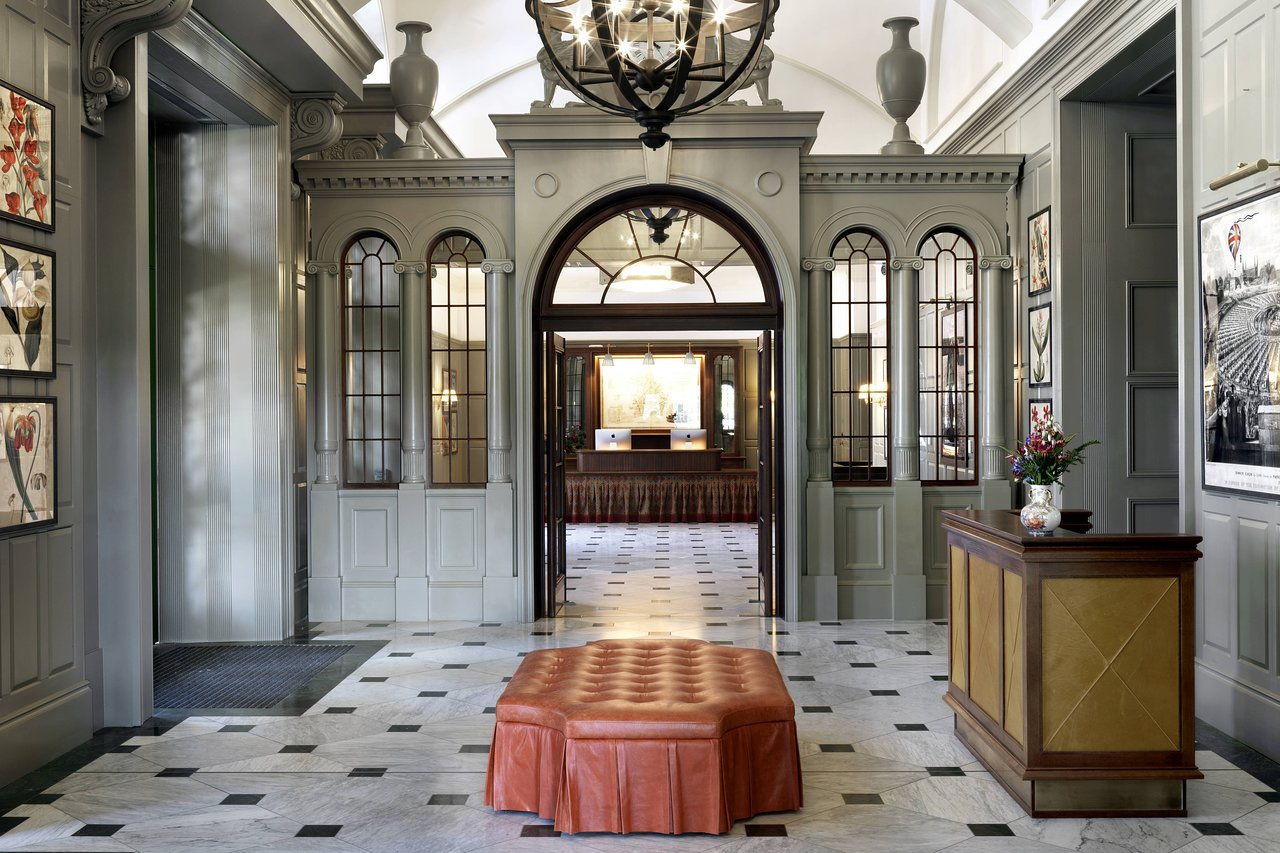
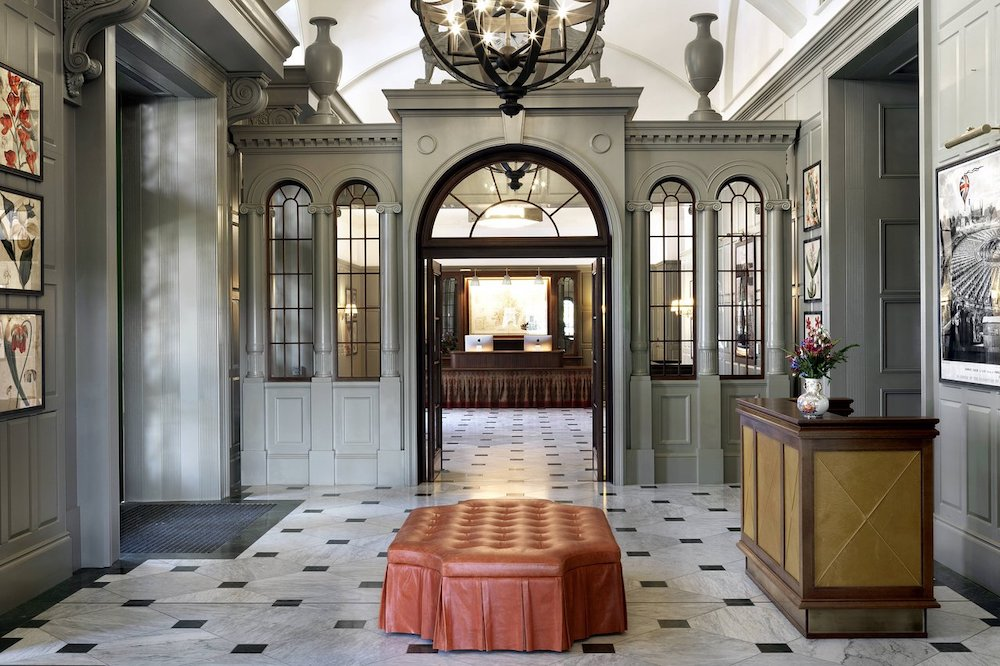
Image optimisations. Add articles to /accommodation page

diff --git a/_sass/custom.scss b/_sass/custom.scss
@@ -642,6 +642,11 @@ a {
 	margin-bottom: 100px;
 }
 
+.post-content img {
+	max-width: 100%;
+	border-radius: 5px;
+}
+
 .page-heading {
 	margin: 40px 0;
 }

diff --git a/accommodation.md b/accommodation.md
@@ -1,8 +1,8 @@
 ---
-layout: booking
+layout: home
 permalink: /accommodation/
-style: accommodation
-title: Stay in Cambridge
+
+title: "Staying in Cambridge"
 ---
 <div class="loading">
 	<h2>Loading...</h2>
@@ -15,30 +15,50 @@ title: Stay in Cambridge
 	</ins>
 </div>
 
-<script type="text/javascript">
+<div style="min-height: 35vh;" style="margin-bottom: 100px; margin-top: 60px;">
+	<ul class="post-list" >
+	  	{%- for post in site.posts -%}
+	  		{%- if post.categories contains "accommodation" -%}
+			 	<li>
+			 		<div class="feed-item">
+				 		<div class="feed-body">
+						  	{%- if post.author -%}
+						    	<p class="post-meta" style="margin-top: 0;">by {{ post.author }}</p>
+						    {%- endif -%}
+						    
+						    <h3 class="feed-title"><a class="post-link" href="{{ post.url | relative_url }}">
+						        {{ post.title | escape }}
+						    </a></h3>
 
-</script>
+						    <p class="post-meta post-summary pointer" onclick="location.href='{{ post.url | relative_url }}';">
+						    	{%- if post.summary -%}
+						    		{{ post.summary }}
+						    	{%- else -%}
+						    		{{ post.content | strip_html | truncate: 147 }}
+						    	{%- endif -%}
+						    </p>
+
+						    {%- assign date_format = site.minima.date_format | default: "%b %-d, %Y" -%}
+						    <p class="post-meta" style="margin-bottom: 0;">{{ post.date | date: date_format }}</p>
+					    </div>
+			    	  	<div class="feed-image pointer" onclick="location.href='{{ post.url | relative_url }}';">
+			        		<img src="{%- if post.tile_image_url -%}{{ post.tile_image_url }}{%- else -%}{%- endif -%}" loading="lazy" alt="News and articles | {{ post.title | escape }}" title="News and articles | {{ post.title | escape }}">    	
+			    	  	</div>
+			  		</div>
+			  	</li>
+			{%- endif -%} 	
+	  	{%- endfor -%}
+	</ul>
+</div>
 
 <div id="next-up-container" class="transparent" style="height: 0 !important; margin: 0 !important;">
 	<div id="next-up-header" ><p>Stay in Cambridge</p></div>
 	<div id="tour-container">
 		<div id="tour-description">
 			<p>Join the official walking tour of Cambridge to see its unmissable sights.</p>
-			<p>Your 90 minute tour will span Cambridge’s 2,000 year history - from its humble beginnings as an Iron Age camp, to its current status as world-leading centre of learning and research.</p>
-			<p>You’ll hear tales of its people and landmarks, including the formation of Cambridge University and its colleges from old religious institutions.</p>
-			<p>You’ll visit places that have changed the world, including the Cavendish Laboratory Building which is linked with 29 Nobel Laureates. You’ll see where the very structure of our being, the double helix DNA, was discovered by Watson, Crick, Wilkins, and Franklin.</p>
-			<p>Along the way you’ll see:</p>
-			<ul>
-				<li> King's College, whose world famous Chapel is home to an exceptional choir.</li>
-			    <li> Trinity College, where you'll find Newton's apple tree.</li>
-			    <li> St John's College, where William Wilberforce started his university career before fighting to abolish slavery.</li>
-			</ul>
 		</div>
 	</div>
 </div>
-  
-<!-- <div class="bokunWidget" data-src="https://widgets.bokun.io/online-sales/b2a94f77-29a2-4342-86ca-10ac40ad7626/experience/423944"></div>
-<noscript>Please enable javascript in your browser to book</noscript> -->
 
 <script>
 	document.addEventListener('DOMContentLoaded', function() {
@@ -50,37 +70,6 @@ title: Stay in Cambridge
 		    s.src = u + '?v=' + (+new Date());
 		    p.parentNode.insertBefore(s,p);
 		 })(document, 'script', '//aff.bstatic.com/static/affiliate_base/js/flexiproduct.js');
-
-		// var tag = document.createElement("script");
-		// tag.setAttribute("async", "");
-		// tag.setAttribute("defer", "");
-		// tag.src = "https://widgets.bokun.io/assets/javascripts/apps/build/BokunWidgetsLoader.js?bookingChannelUUID=b2a94f77-29a2-4342-86ca-10ac40ad7626"
-		// document.getElementsByTagName("head")[0].appendChild(tag);
-
-		// window.openBookingPortal = (function() {
-		// 	var opened = false;
-		// 	return function() {
-		//         if (!opened) {
-		//             opened = true;
-		//             var tag = document.createElement("script");
-		// 			tag.setAttribute("async", "");
-		// 			tag.setAttribute("defer", "");
-		// 			tag.src = "https://widgets.bokun.io/assets/javascripts/apps/build/BokunWidgetsLoader.js?bookingChannelUUID=b2a94f77-29a2-4342-86ca-10ac40ad7626";
-		// 			document.getElementsByTagName("head")[0].appendChild(tag);
-		//         }
-		//     };
-		// })();
-
-	 //    var guides = document.getElementById('guides-header');
-	 //    var guidesOffset = guides.getBoundingClientRect();
-	 //    var triggerHeight = window.pageYOffset + guidesOffset.top + guidesOffset.height*.6;
-		// window.onscroll = function() {
-		//     if (window.pageYOffset > triggerHeight) {
-		//         openBookingPortal();
-		//     }
-		// }
-
-		// openBookingPortal();
 
 	}, false);
 </script>

diff --git a/_posts/2020-09-15-best-luxury-hotels-in-cambridge.md b/_posts/2020-09-15-best-luxury-hotels-in-cambridge.md
@@ -2,22 +2,20 @@
 layout: post
 title:  "Best luxury hotels in Cambridge"
 summary: 
-date:   2020-09-15
-categories: hotels
+date:   2020-10-05
+categories: accommodation
 author: Kaitlyn Thorne
 image_url: /assets/images/2020-09-15_best_luxury_hotels_in_cambridge.jpg
-tile_image_url: /assets/images/2020-09-15_best_luxury_hotels_in_cambridge.jpg
+tile_image_url: /assets/images/2020-09-15_best_luxury_hotels_in_cambridge_tile.jpg
 photographer: Kirsten Drew
 photographer_url: https://unsplash.com/@k_drew
 ---
-
-## Best luxury hotels in Cambridge
 
 Cambridge has a wide range of hotels to match all budgets. The City Center hotels are on the pricier end of the spectrum and have great restaurants and teas should you just want to pop in!
 
 Our top pick of luxury hotels have lots to offer whether you are just looking for a romantic getaway or wanting to pamper yourself in a spa Cambridge has a range of hotels that will suit your needs.
 
-[Book Now](https://www.visitcambridge.com/accommodation/)
+[Book your stay](https://www.visitcambridge.com/accommodation/)
 
 <br>
 <br>
@@ -26,9 +24,9 @@ Our top pick of luxury hotels have lots to offer whether you are just looking fo
 
 ![/assets/images/the-varsity-hotel-spa.jpg](/assets/images/the-varsity-hotel-spa.jpg)
 
-Thompson's Lane, Cambridge CB5 8AQ England
-
 Closest to many of the colleges this is a great hotel with incredible services and facilities. The restuarant has views of the River Cam from the roof terrace too!
+
+Thompson's Lane, Cambridge CB5 8AQ England
 
 <br>
 <br>
@@ -46,16 +44,16 @@ This hotel provides great access to the City Center. Located minutes from all th
 
 ### [University Arms Hotel](https://universityarms.com/)
 
-![/assets/images/regent.jpg](/assets/images/regent.jpg)
+![/assets/images/university-arms-hotel.jpg](/assets/images/university-arms-hotel.jpg)
 
 This is pure luxury, the rooms are fit for royalty. Voted as one of the Top five hotels in the UK its quirky and eclectic rooms are divine.
 
 Regent St, Cambridge CB2 1AD
 
+<br>
+<br>
+
 
 ### Want to see more hotels in Cambridge?
 
-[Book Today](https://www.visitcambridge.com/accommodation/)
-
-<br>
-<br>
+[Book your stay](https://www.visitcambridge.com/accommodation/)

diff --git a/_posts/2020-09-15-best-affordable-hotels-in-cambridge.md b/_posts/2020-09-15-best-affordable-hotels-in-cambridge.md
@@ -3,21 +3,19 @@ layout: post
 title:  "Best affordable hotels in Cambridge"
 summary: 
 date:   2020-09-15
-categories: hotels
+categories: accommodation
 author: Kaitlyn Thorne
 image_url: /assets/images/2020-09-15_best_affordable_hotels_in_cambridge.jpg
-tile_image_url: /assets/images/2020-09-15_best_affordable_hotels_in_cambridge.jpg
+tile_image_url: /assets/images/2020-09-15_best_affordable_hotels_in_cambridge_tile.jpg
 photographer: Cajeo Zhang
 photographer_url: https://unsplash.com/@cajeo
 ---
-
-## Best affordable hotels in Cambridge
 
 Whilst most of the more affordable hotels are on the edges of the city center, Cambridge itself is quite small so getting around won't take you long.
 
 If you're just looking for a place to rest your head, then these hotels provide a great way to come and see the city at a price that won't break the bank.
 
-[Book Now](https://www.visitcambridge.com/accommodation/)
+[Book your stay](https://www.visitcambridge.com/accommodation/)
 
 <br>
 <br>
@@ -37,26 +35,28 @@ On the slightly pricier end of affordable, the Regent hotel has a great location
 
 ![/assets/images/travelodge.jpg](/assets/images/travelodge.jpg)
 
-Clifton Way Cambridge Leisure Park, Cambridge CB1 7DY England
-
 The Travelodge is a great option if you're looking for a cheaper night in Cambridge. A little way from the City Center its still very close to the Station. 
 
-br>
-<br><
+Clifton Way Cambridge Leisure Park, Cambridge CB1 7DY England
+
+<br>
+<br>
 
 
 ### [ibis Cambridge Central Station Hotel](https://ibis.accor.com/gb/city/hotels-cambridge-v0683.shtml)
 
 ![/assets/images/ibis.jpg](/assets/images/ibis.jpg)
 
-2 Station Square, Cambridge CB1 2GA England
-
 A modern and building right next to the Station and a 10 minute walk to the city center. Much like every other ibis so you know the score.
 
+2 Station Square, Cambridge CB1 2GA England
+
+<br>
+<br>
 
 ### Want to see more hotels in Cambridge?
 
-[Book Today](https://www.visitcambridge.com/accommodation/)
+[Book your stay](https://www.visitcambridge.com/accommodation/)
 
 <br>
 <br>
